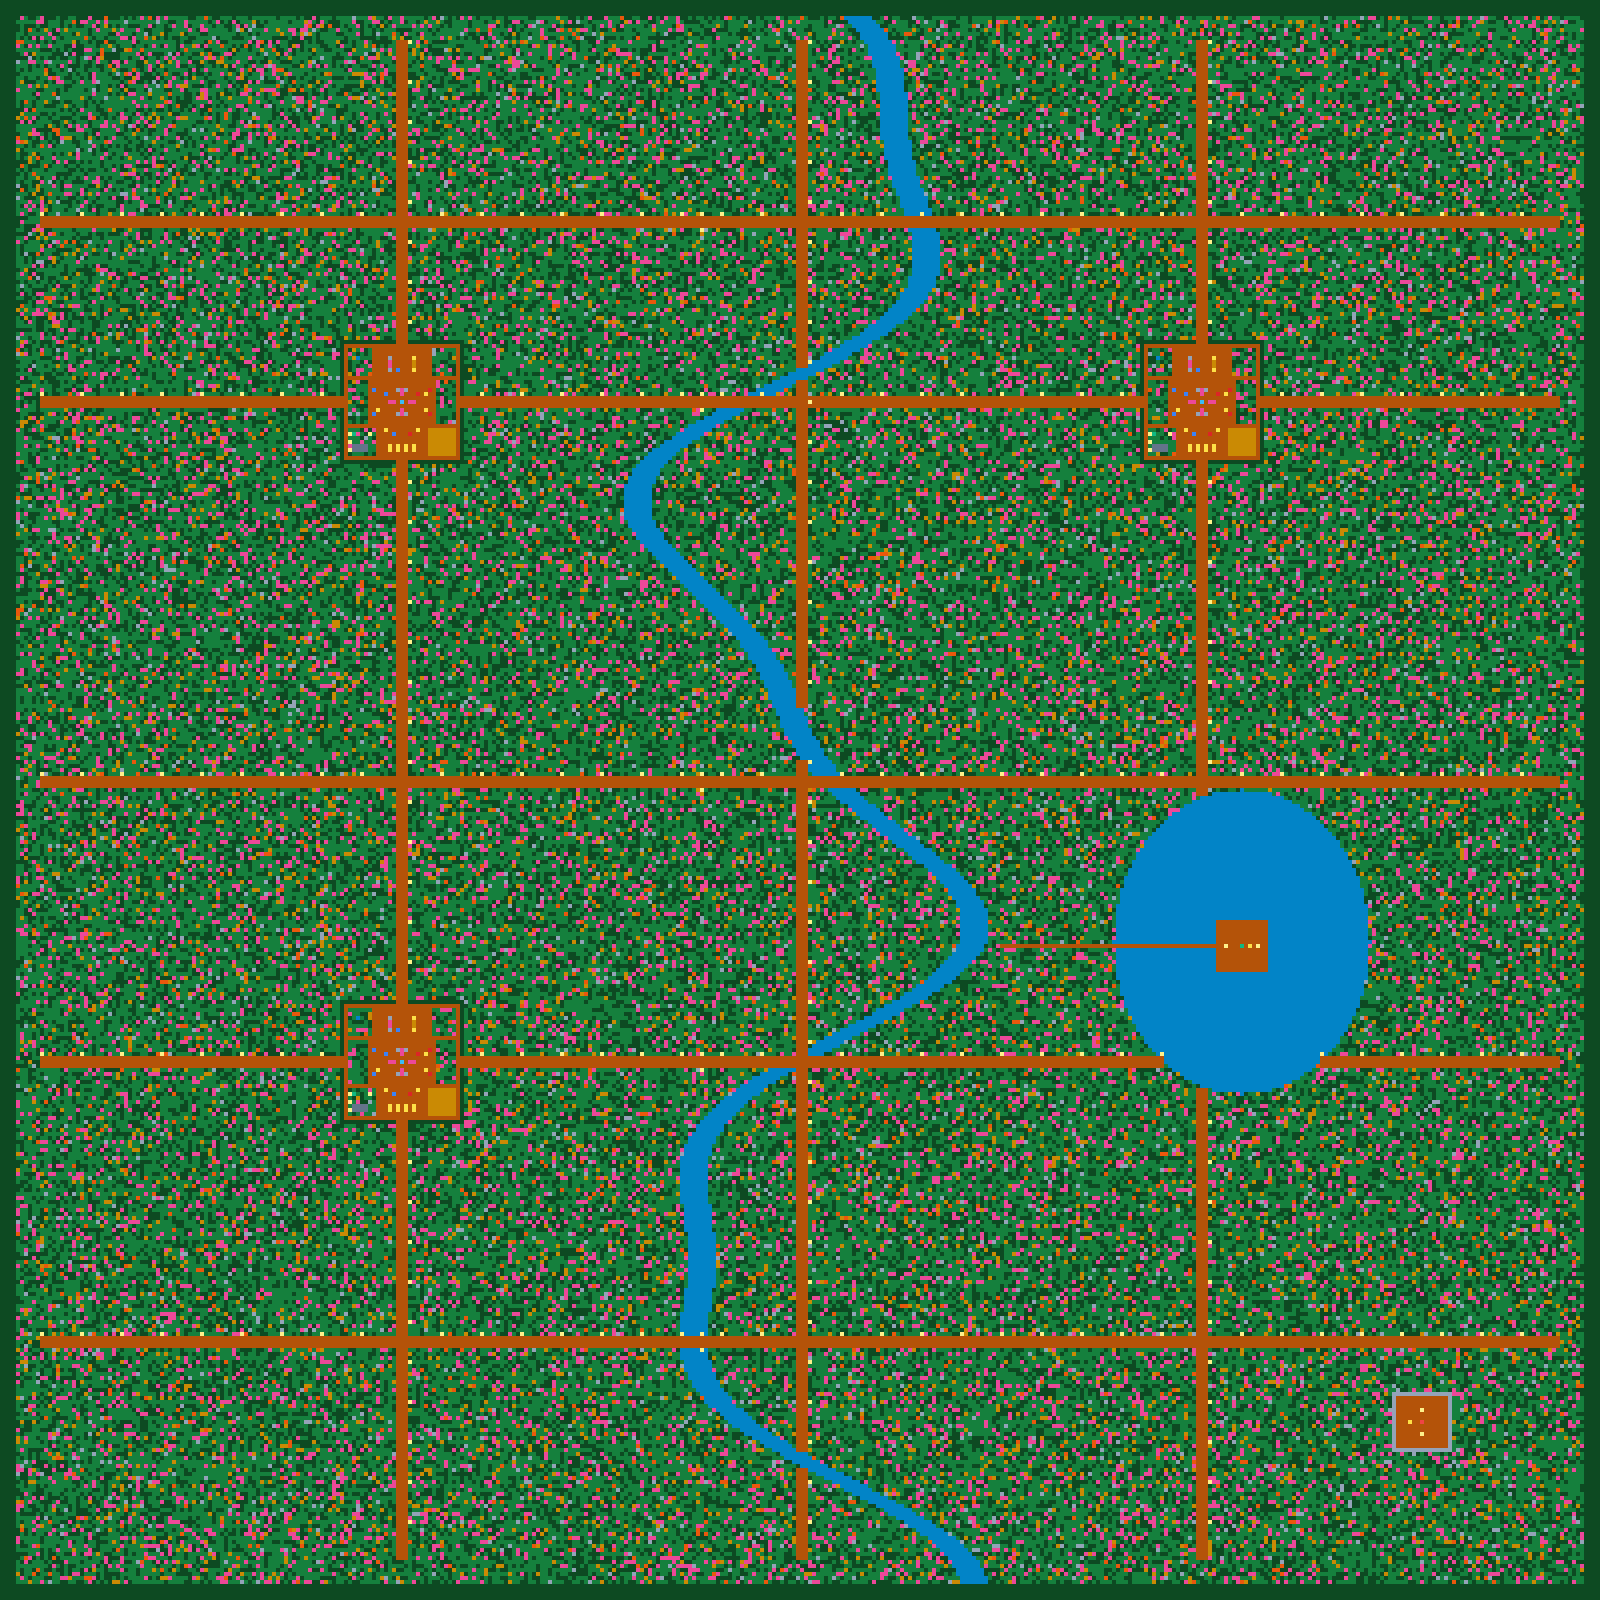
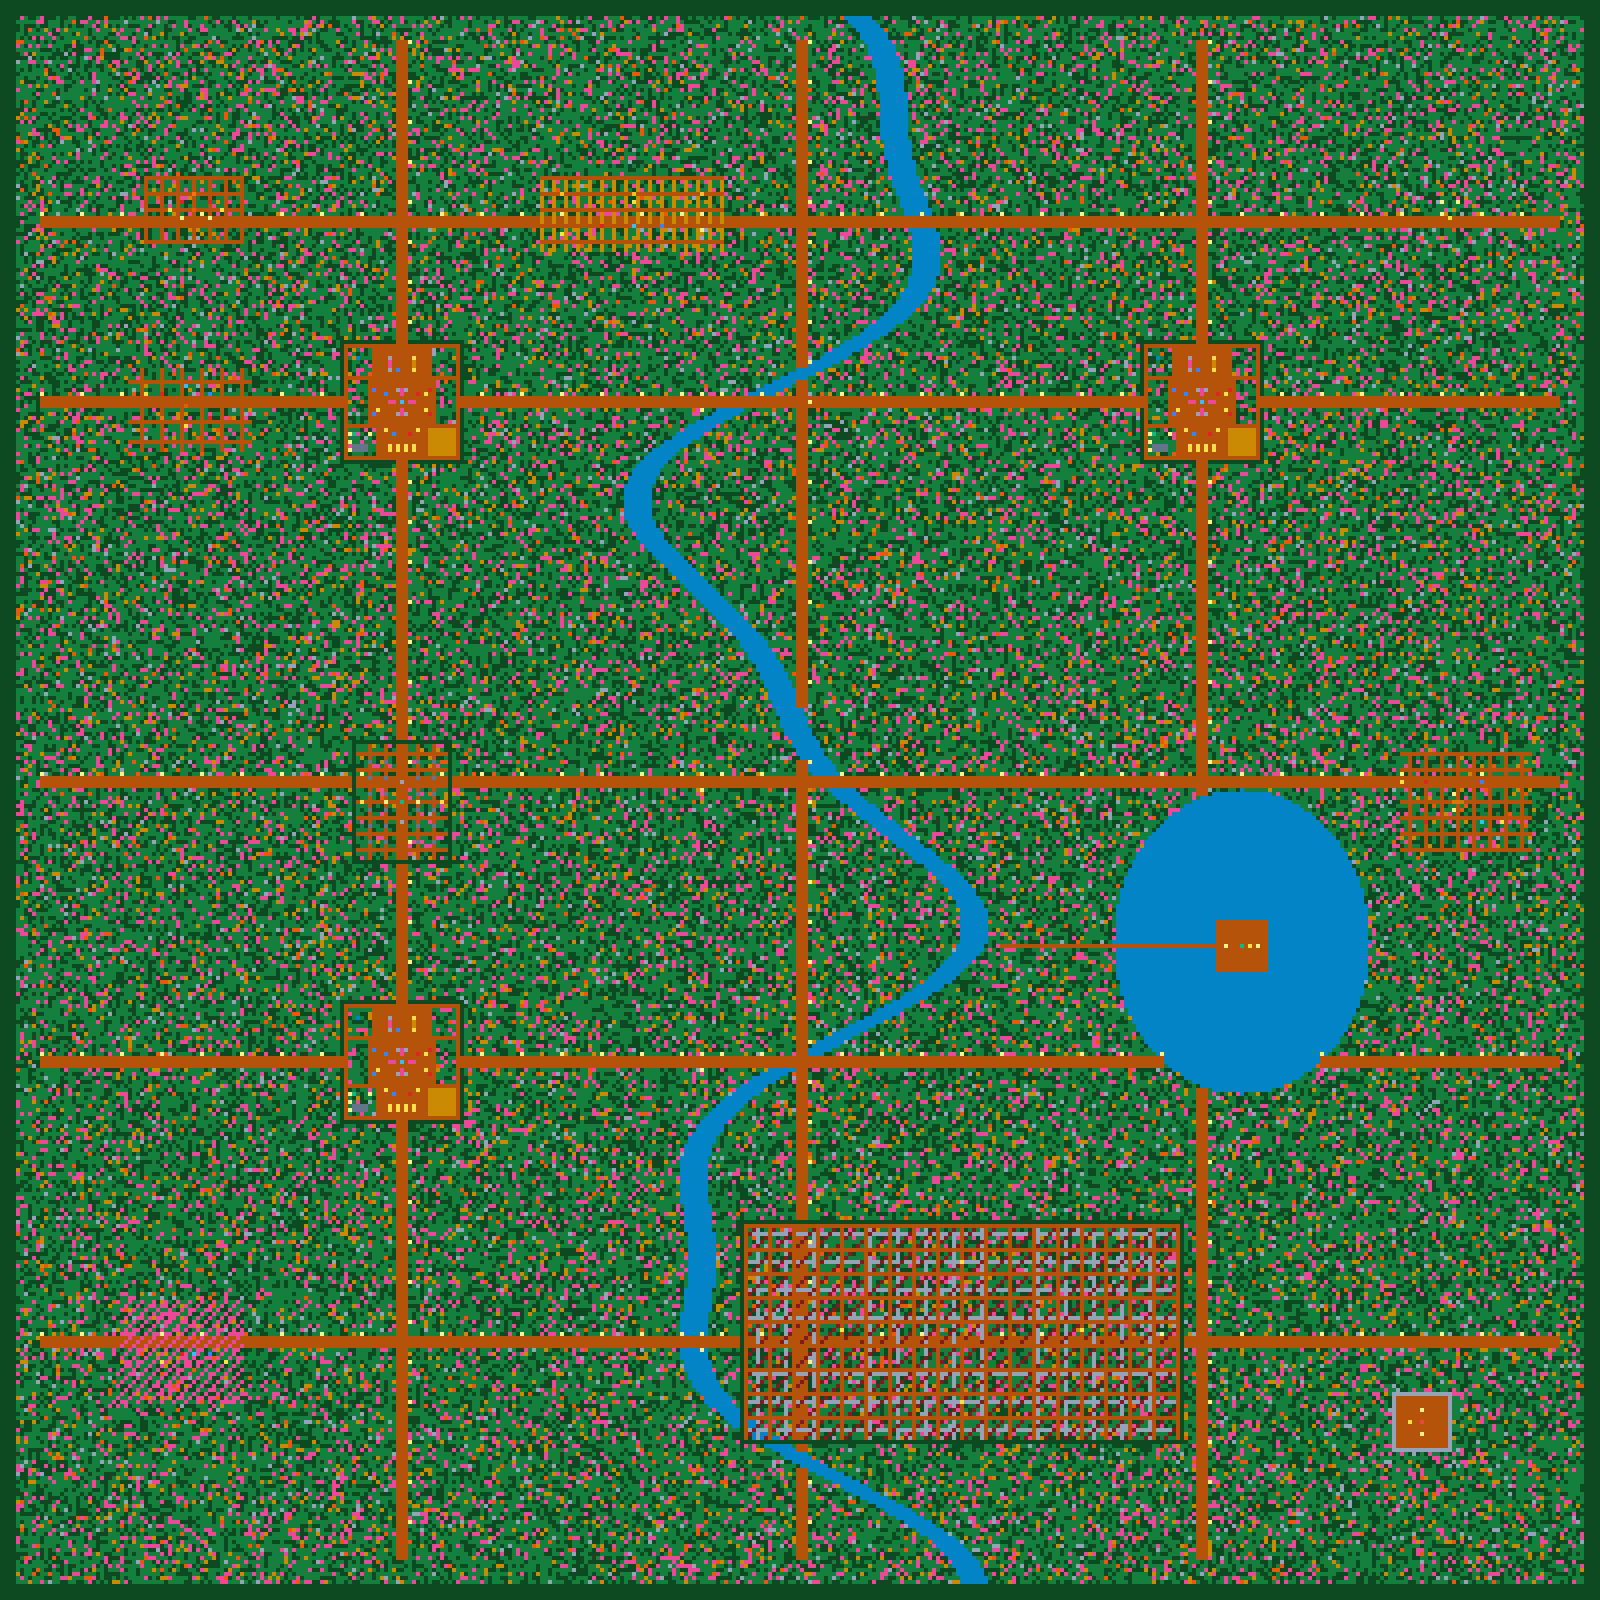
feat: populate map 1 with 8 major settlements and dungeon POIs across the 7 marked regions

diff --git a/src/data/worldMapGenerator400.ts b/src/data/worldMapGenerator400.ts
@@ -232,6 +232,108 @@ export function generateForest400(): {
   buildMockupTown(map, 300, 100);
   buildMockupTown(map, 100, 265);
 
+  // =========================================================================
+  // 🗺 8 POIS Y MAZMORRAS EN LAS 7 ZONAS MARCADAS
+  // =========================================================================
+
+  // 1. 🏹 Campamento de los Cazadores Reales (X: 30..65, Y: 40..65)
+  for (let y = 44; y <= 60; y++) {
+    for (let x = 36; x <= 60; x++) {
+      if (x % 4 === 0 || y % 4 === 0) map[y][x] = 2;
+    }
+  }
+  map[50][45] = 5; map[50][52] = 5; // Cabañas
+  map[52][48] = 19; // Gran hoguera
+  map[48][48] = 10; // Forja/Armero
+  map[54][45] = 17; map[54][52] = 17; // Farolas
+  map[52][42] = 7; map[52][55] = 7; // Cofres
+
+  // 2. 🌾 El Valle de los Molinos de Viento (X: 130..185, Y: 40..65)
+  for (let y = 44; y <= 62; y++) {
+    for (let x = 135; x <= 180; x++) {
+      if (x % 3 === 0) map[y][x] = 13; // Bancales de trigo
+      if (y % 4 === 0) map[y][x] = 2;  // Caminos
+    }
+  }
+  map[48][140] = 6; map[48][158] = 6; map[48][175] = 6; // 3 Molinos Gigantes
+  map[56][150] = 5; map[56][165] = 9; // Granero y Tienda
+  map[56][158] = 4; // Pozo de riego
+  map[50][158] = 7; map[58][140] = 7; // Cofres
+
+  // 3. 🔮 Santuario Megalítico de los Antiguos (X: 340..385, Y: 40..65)
+  for (let angle = 0; angle < Math.PI * 2; angle += Math.PI / 6) {
+    const px = Math.round(362 + Math.cos(angle) * 12);
+    const py = Math.round(52 + Math.sin(angle) * 9);
+    map[py][px] = 18; // Columnas en círculo tipo Stonehenge
+    map[py][px - 1] = 12; // Flores arcanas
+  }
+  map[52][362] = 8; // Altar Central
+  map[50][360] = 17; map[50][364] = 17; map[54][362] = 7; // Cofre arcano
+
+  // 4. 🪓 Aserradero y Fuerte de los Leñadores (X: 25..65, Y: 90..115)
+  for (let y = 92; y <= 112; y++) {
+    for (let x = 32; x <= 62; x++) {
+      if (x % 5 === 0 || y % 5 === 0) map[y][x] = 2;
+    }
+  }
+  map[98][40] = 5; map[98][52] = 9; // Cabañas
+  map[104][40] = 10; map[104][52] = 5; // Forja y almacén
+  map[101][46] = 19; map[96][46] = 4; // Fogata y pozo
+  map[106][46] = 7; map[98][36] = 7; // Cofres
+
+  // 5. 🪦 Gran Necrópolis y Cripta de los Reyes (X: 90..115, Y: 180..220)
+  for (let y = 185; y <= 215; y++) {
+    for (let x = 88; x <= 112; x++) {
+      if (x === 88 || x === 112 || y === 185 || y === 215) map[y][x] = 1; // Muralla
+      else if (x % 4 === 0 || y % 4 === 0) map[y][x] = 2;
+    }
+  }
+  map[200][100] = 8; // Mausoleo de los Reyes
+  for (let y = 190; y <= 210; y += 4) {
+    map[y][92] = 16; map[y][96] = 16; map[y][104] = 16; map[y][108] = 16;
+  }
+  map[195][100] = 18; map[205][100] = 18; map[200][96] = 17; map[200][104] = 17;
+  map[200][90] = 7; map[200][110] = 7; // Cofres del Panteón
+
+  // 6. ⚓ Puerto Pesquero y Embarcadero del Este (X: 345..385, Y: 180..215)
+  for (let y = 188; y <= 212; y++) {
+    for (let x = 350; x <= 382; x++) {
+      if (x % 4 === 0 || y % 4 === 0) map[y][x] = 2;
+    }
+  }
+  map[195][356] = 5; map[195][370] = 9; // Cabañas portuarias
+  map[205][356] = 5; map[205][370] = 4; // Taberna y pozo
+  map[200][363] = 15; map[200][364] = 15; map[200][365] = 15; // Muelle de madera
+  map[198][363] = 17; map[202][363] = 17;
+  map[205][375] = 7; map[195][350] = 7; // Cofres
+
+  // 7. 🧪 Arboleda Oculta de la Alquimista (X: 25..65, Y: 320..355)
+  for (let y = 325; y <= 350; y++) {
+    for (let x = 30; x <= 60; x++) {
+      if ((x + y) % 3 === 0) map[y][x] = 12; // Setas y hierbas
+    }
+  }
+  map[338][45] = 5; map[338][52] = 9; // Cabaña y Laboratorio
+  map[334][48] = 19; map[342][48] = 19; // Calderos humeantes
+  map[338][48] = 4; // Pozo de esencias
+  map[340][40] = 7; map[340][56] = 7; // Cofres
+
+  // 8. 🏰 Ruinas de la Ciudadela Perdida (Gran Mazmorra) (X: 180..300, Y: 300..365)
+  for (let y = 305; y <= 360; y++) {
+    for (let x = 185; x <= 295; x++) {
+      // Murallas exteriores y patios interiores
+      if (x === 185 || x === 295 || y === 305 || y === 360) map[y][x] = 1;
+      else if (x % 6 === 0 || y % 6 === 0) map[y][x] = 2; // Galerías de losas
+      else if ((x + y) % 5 === 0) map[y][x] = 14; // Tierra calcinada / peligro
+      else if ((x * y) % 7 === 0) map[y][x] = 18; // Columnas rotas
+    }
+  }
+  // Patio de Armas de la Ciudadela
+  map[332][240] = 8;  // Santuario de los Titanes
+  map[325][220] = 10; map[325][260] = 10; // Forjas arcanas
+  map[340][220] = 19; map[340][260] = 19; // Grandes piras de fuego
+  map[332][210] = 7; map[332][270] = 7; map[315][240] = 7; map[350][240] = 7; // 4 Cofres Legendarios
+
   // Portal del Dragón Primigenio (X: 355, Y: 355)
   for (let y = 348; y <= 362; y++) {
     for (let x = 348; x <= 362; x++) {
